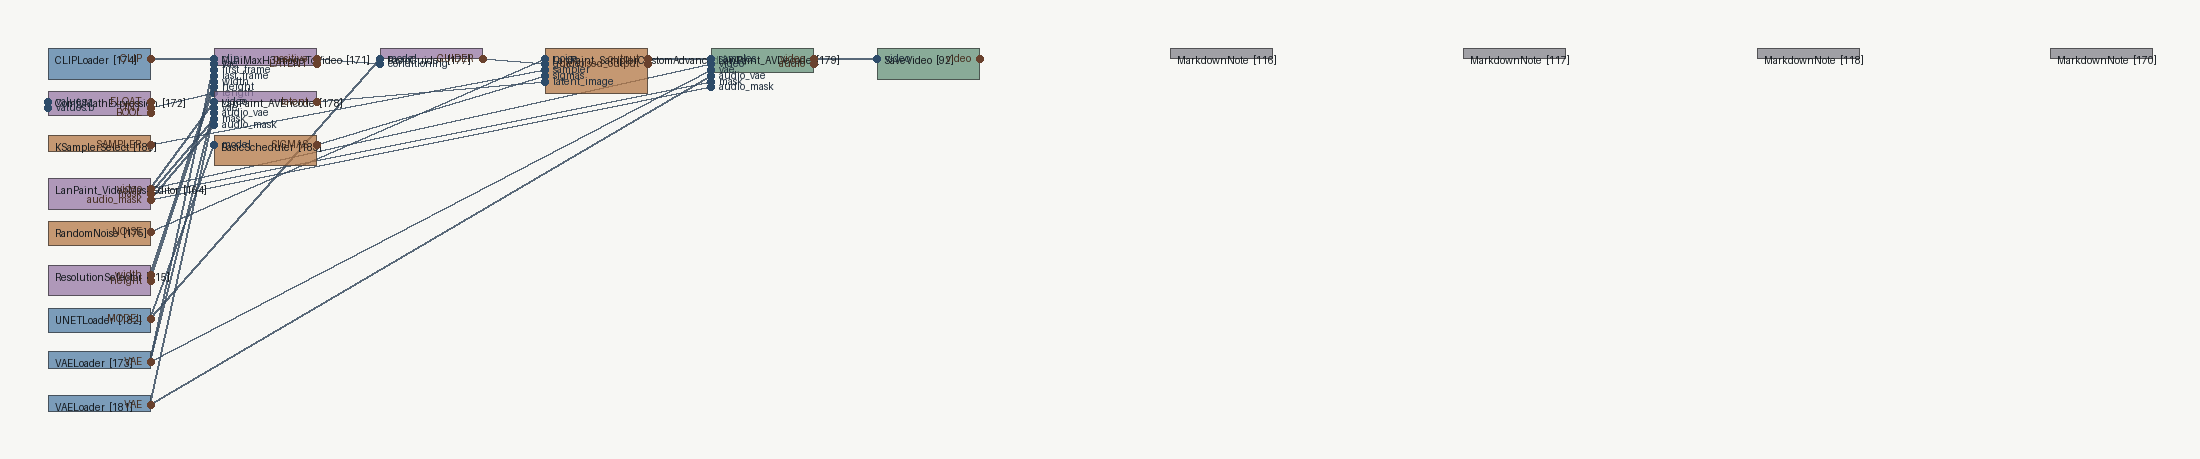
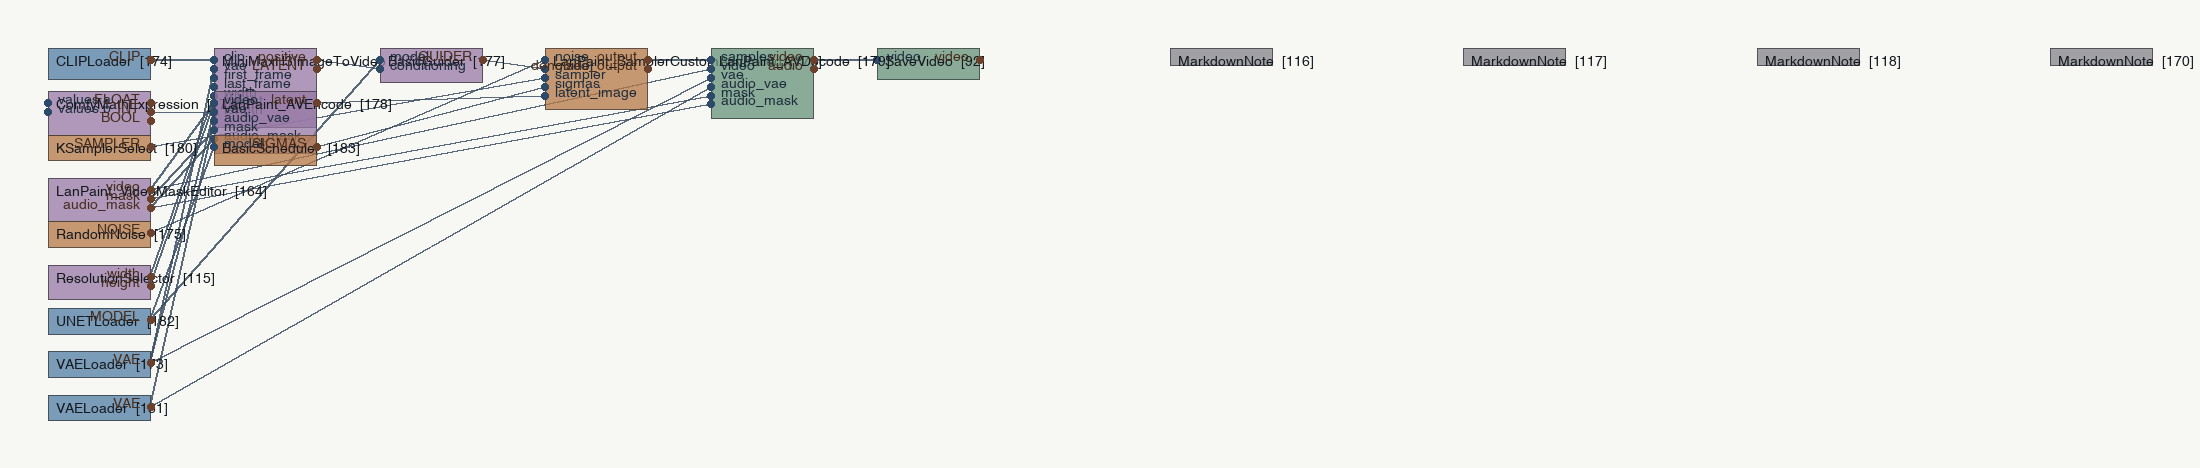
Fix nested definition fidelity and H3 readability

diff --git a/vibecomfy/porting/reorganise/visualize.py b/vibecomfy/porting/reorganise/visualize.py
@@ -55,7 +55,10 @@ def write_layout_png(ui_json: Mapping[str, Any], path: Path) -> None:
 
     image = Image.new("RGB", (canvas_w, canvas_h), "#f7f7f4")
     draw = ImageDraw.Draw(image, "RGBA")
-    font = ImageFont.load_default()
+    try:
+        font = ImageFont.truetype("/System/Library/Fonts/Helvetica.ttc", 14)
+    except OSError:
+        font = ImageFont.load_default()
 
     for group in groups:
         rect = _group_rect(group)
@@ -97,14 +100,14 @@ def write_layout_png(ui_json: Mapping[str, Any], path: Path) -> None:
         sx, sy, sw, sh = source_rect
         tx_, ty_, _tw, th = target_rect
         try:
-            source_y = sy + 30 + (int(source_slot) * 18)
+            source_y = sy + 34 + (int(source_slot) * 28)
         except (TypeError, ValueError):
             source_y = sy + sh / 2
         try:
             target_index = int(target_slot)
         except (TypeError, ValueError):
             target_index = input_slots.get(str(target_id), {}).get(str(target_slot), 0)
-        target_y = ty_ + 30 + (target_index * 18)
+        target_y = ty_ + 34 + (target_index * 28)
         draw.line([(tx(sx + sw), ty(source_y)), (tx(tx_), ty(target_y))], fill=(55, 75, 95, 210), width=max(2, round(scale * 2)))
 
     for node in nodes:
@@ -121,25 +124,25 @@ def write_layout_png(ui_json: Mapping[str, Any], path: Path) -> None:
             outline=(45, 45, 45, 32 if is_support else 170),
             width=1,
         )
-        draw.text((tx(x) + 7, ty(y) + 6), f"{class_type}  [{node.get('id')}]", fill=(20, 25, 30, 255), font=font)
+        draw.text((tx(x) + 8, ty(y) + 7), f"{class_type}  [{node.get('id')}]", fill=(20, 25, 30, 255), font=font)
         inputs = node.get("inputs", [])
         if isinstance(inputs, list):
             for index, item in enumerate(inputs):
                 if not isinstance(item, Mapping):
                     continue
-                py = ty(y + 30 + index * 18)
+                py = ty(y + 34 + index * 28)
                 draw.ellipse([tx(x) - 4, py - 3, tx(x) + 3, py + 4], fill=(45, 75, 105, 255))
-                draw.text((tx(x) + 8, py - 6), str(item.get("name") or f"in{index}"), fill=(30, 45, 60, 255), font=font)
+                draw.text((tx(x) + 10, py - 9), str(item.get("name") or f"in{index}"), fill=(30, 45, 60, 255), font=font)
         outputs = node.get("outputs", [])
         if isinstance(outputs, list):
             for index, item in enumerate(outputs):
                 if not isinstance(item, Mapping):
                     continue
-                py = ty(y + 30 + index * 18)
+                py = ty(y + 34 + index * 28)
                 draw.ellipse([tx(x + w) - 3, py - 3, tx(x + w) + 4, py + 4], fill=(105, 65, 45, 255))
                 label = str(item.get("name") or f"out{index}")
                 bbox = draw.textbbox((0, 0), label, font=font)
-                draw.text((tx(x + w) - (bbox[2] - bbox[0]) - 8, py - 6), label, fill=(70, 45, 30, 255), font=font)
+                draw.text((tx(x + w) - (bbox[2] - bbox[0]) - 10, py - 9), label, fill=(70, 45, 30, 255), font=font)
 
     image.save(path)
 
@@ -181,6 +184,12 @@ def _node_rect(node: Mapping[str, Any]) -> tuple[float, float, float, float] | N
     if isinstance(size, list) and len(size) >= 2:
         width = _number(size[0], width)
         height = _number(size[1], height)
+    inputs = node.get("inputs") if isinstance(node.get("inputs"), list) else []
+    outputs = node.get("outputs") if isinstance(node.get("outputs"), list) else []
+    # Only the inspection rectangle is enlarged; authored positions and the
+    # exported graph remain untouched.  A 28px pitch is deliberately larger
+    # than the readable 14px label font.
+    height = max(height, 52.0 + 28.0 * max(len(inputs), len(outputs)))
     return (_number(pos[0], 0.0), _number(pos[1], 0.0), width, height)
 
 

diff --git a/vibecomfy/porting/emit/emit_ready.py b/vibecomfy/porting/emit/emit_ready.py
@@ -1532,7 +1532,11 @@ def _canonical_definition_helpers(
             if not isinstance(value, (list, tuple)):
                 return None
             return [
-                {key: copy.deepcopy(item[key]) for key in ("name", "type", "slot") if key in item}
+                {
+                    **{key: copy.deepcopy(item[key]) for key in ("name", "type", "slot") if key in item},
+                    "_has_link": "link" in item,
+                    "_has_value": "value" in item,
+                }
                 if isinstance(item, Mapping) else item
                 for item in value
             ]
@@ -1633,13 +1637,21 @@ def _canonical_definition_helpers(
             if isinstance(raw.get("widgets"), Mapping):
                 for key, value in raw["widgets"].items():
                     values.setdefault(str(key), value)
+            widget_channels = (
+                {str(key): copy.deepcopy(value) for key, value in raw["widgets"].items()}
+                if isinstance(raw.get("widgets"), Mapping) else {}
+            )
             raw_outputs = raw.get("outputs")
             outputs = tuple(
                 str(item.get("name", item.get("slot", index)))
                 if isinstance(item, Mapping) else str(item)
                 for index, item in enumerate(raw_outputs)
             ) if isinstance(raw_outputs, (list, tuple)) else ()
-            record = {"id": node_id, "class_type": class_type, "node_field": "class_type" if "class_type" in raw else "type", "uid": raw.get("uid"), "values": values, "outputs": outputs,
+            # Normalization adds ``class_type`` to legacy ``type`` rows.  A
+            # surviving type key is therefore the strongest authored spelling
+            # witness for the emitted definition source.
+            node_field = "type" if "type" in raw and "class_type" not in raw else "class_type"
+            record = {"id": node_id, "class_type": class_type, "node_field": node_field, "uid": raw.get("uid"), "values": values, "widget_channels": widget_channels, "outputs": outputs,
                       "input_shape": copy.deepcopy(raw_inputs) if isinstance(raw_inputs, (list, tuple)) else None,
                       "output_shape": copy.deepcopy(raw_outputs) if isinstance(raw_outputs, (list, tuple)) else None}
             for field in (
@@ -1798,6 +1810,12 @@ def _canonical_definition_helpers(
                         continue
                     else:
                         value_expr = render(value)
+                    if field in record.get("widget_channels", {}):
+                        value_expr = (
+                            f"authored_channel({value_expr}, "
+                            f"widget={render(record['widget_channels'][field])}, "
+                            f"name={field!r})"
+                        )
                     if (
                         _keyword.iskeyword(field)
                         or not field.isidentifier()

diff --git a/vibecomfy/templates.py b/vibecomfy/templates.py
@@ -64,21 +64,30 @@ def materialize_recursive_definitions(
         is_handle = hasattr(node, "node_id") and hasattr(node, "output_slot")
         source_node = None if is_handle else getattr(node, "node", node)
         values = deepcopy(getattr(source_node, "inputs", {})) if source_node is not None else {}
+        widgets = deepcopy(getattr(source_node, "widgets", {})) if source_node is not None else {}
         input_shape = identity.get("input_shape")
         if isinstance(input_shape, (list, tuple)):
-            values = [
-                {
-                    **{key: deepcopy(item[key]) for key in ("name", "type") if key in item},
-                    "link": link_by_target.get((str(identity.get("id")), str(item.get("name")))),
-                    "value": deepcopy(values.get(str(item.get("name")))) if isinstance(values, Mapping) else None,
-                }
-                for item in input_shape
-                if isinstance(item, Mapping)
-            ]
+            rows = []
+            for item in input_shape:
+                if not isinstance(item, Mapping):
+                    continue
+                row = deepcopy(dict(item))
+                field = str(item.get("name"))
+                link_id = link_by_target.get((str(identity.get("id")), field))
+                if link_id is not None or row.get("_has_link"):
+                    row["link"] = link_id
+                if row.get("_has_value"):
+                    row["value"] = deepcopy(values.get(field)) if isinstance(values, Mapping) else None
+                row.pop("_has_link", None)
+                row.pop("_has_value", None)
+                rows.append(row)
+            values = rows
         payload = {
             "id": identity.get("id"),
             "inputs": values,
         }
+        if widgets:
+            payload["widgets"] = widgets
         node_field = str(identity.get("node_field", "class_type"))
         payload[node_field] = str(getattr(source_node, "class_type", identity.get("class_type", "")))
         if identity.get("uid") is not None:

diff --git a/tests/test_reorganise_visualize.py b/tests/test_reorganise_visualize.py
@@ -17,6 +17,9 @@ def test_render_layout_png_draws_link_titles_and_ports() -> None:
     with tempfile.TemporaryDirectory() as tmpdir:
         path = Path(tmpdir) / "linked.png"
         render_layout_png(ui_json, path)
+        from vibecomfy.porting.reorganise.visualize import _node_rect
+        assert _node_rect(ui_json["nodes"][1])[3] >= 80
+        assert _node_rect(ui_json["nodes"][0])[3] >= 80
         colors = set(Image.open(path).convert("RGB").getdata())
         assert len(colors) > 20
         assert any(sum(pixel) < 260 for pixel in colors)

diff --git a/docs/handover/unified-workflow-integrity-20260909/evidence/h3-correction/inspection.md b/docs/handover/unified-workflow-integrity-20260909/evidence/h3-correction/inspection.md
@@ -19,9 +19,9 @@ The same edited Python was then exported through `port export --to ui
 |---|---|---|
[4 lines of base64/hex data omitted]
 
-All 20 exported node `properties.vibecomfy_uid` values are present and unique,
+The source layout is absent, so fresh auto-placement is through the normal owner; the resulting evidence is readable and inspectable. All 20 exported node `properties.vibecomfy_uid` values are present and unique,
 and the sidecar entry keys equal that UID set. The exported `RandomNoise`
 node has `widgets_values[0] == 123`. The sidecar is fresh layout generated by
 the normal export owner because the source fixture has no layout; it is not a
